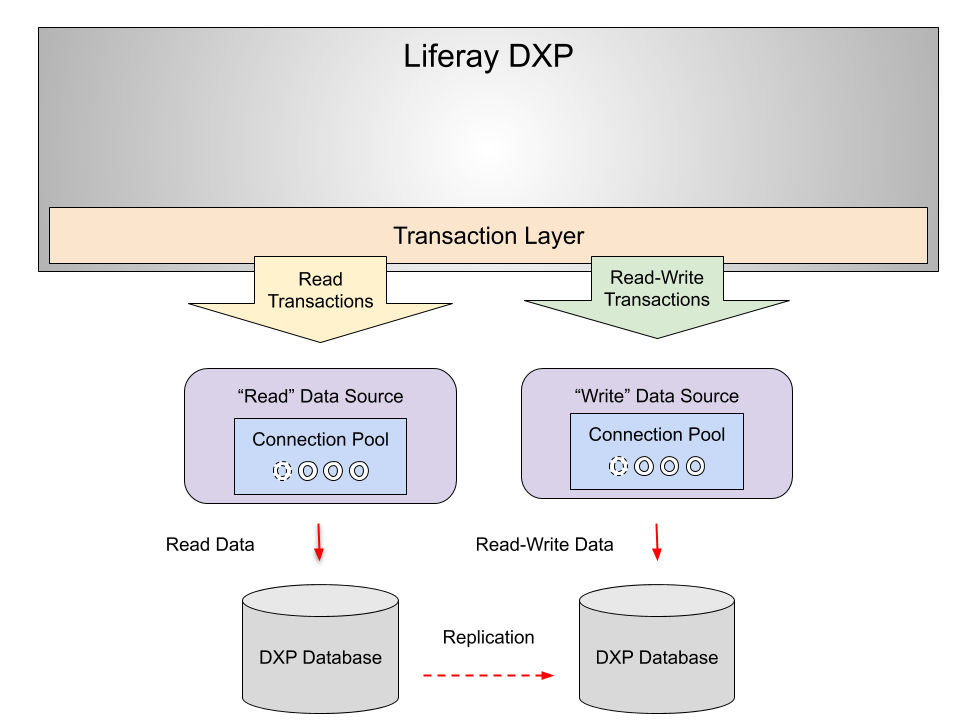
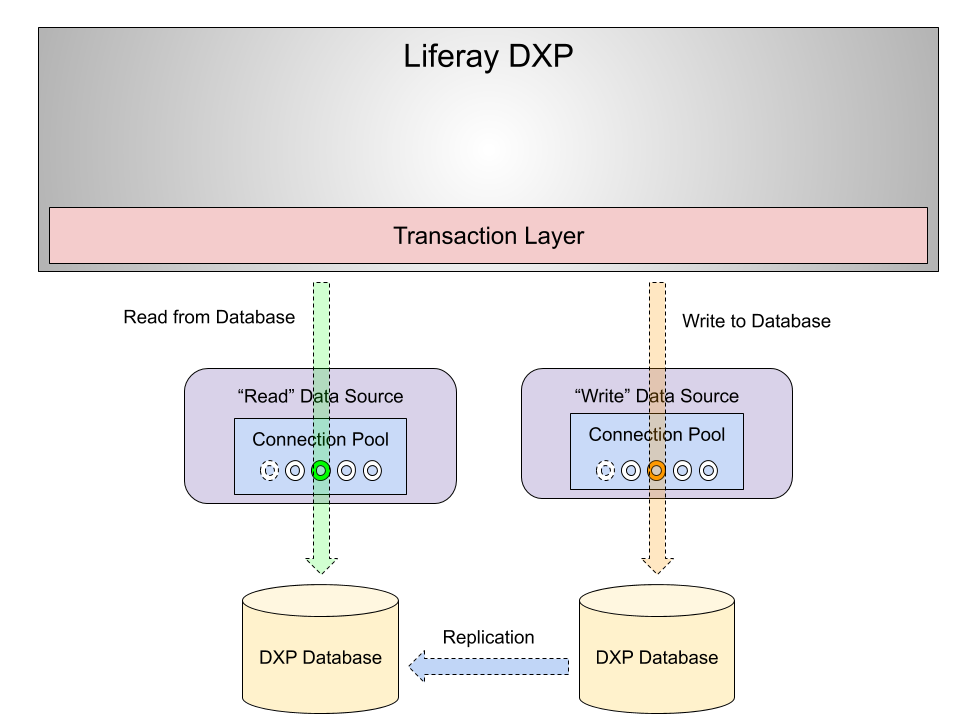
Update diagram, wordsmithing, update clustering article references throughout, update landing card

Changed region(s): [[0.0312, 0.275, 0.9688, 0.7944], [0.25, 0.825, 0.7812, 1.0], [0.1562, 0.7333, 0.2812, 0.7639]]

diff --git a/docs/dxp/7.x/en/installation-and-upgrades/landing.html b/docs/dxp/7.x/en/installation-and-upgrades/landing.html
@@ -32,12 +32,12 @@
 							url: 'installation-and-upgrades/setting-up-liferay-dxp/configuring-mail/connecting-to-a-mail-server.html'
 						},
 						{
-							name: 'Configuring the Document Library Repository (Coming Soon)',
-							url: 'installation-and-upgrades/setting-up-liferay-dxp/document-repository-overview.html'
+							name: 'Configuring File Storage',
+							url: 'system-administration/file-storage/configuring-file-storage.html'
 						},
 						{
-							name: 'Introduction to Clustering Liferay DXP (Coming Soon)',
-							url: 'installation-and-upgrades/configuring-clustering-for-high-availability/01-introduction-to-clustering-liferay-dxp.html'
+							name: 'Clustering for High Availability',
+							url: 'installation-and-upgrades/setting-up-liferay-dxp/clustering-for-high-availability/clustering-for-high-availability.html'
 						},
 					]
 				},

diff --git a/docs/dxp/7.x/en/installation-and-upgrades/README.rst b/docs/dxp/7.x/en/installation-and-upgrades/README.rst
@@ -58,15 +58,14 @@ Configuring the Document Library Repository
 -  :doc:`/installation-and-upgrades/setting-up-liferay-dxp/configuring-the-document-library-repository/using-the-dbstore`
 -  :doc:`/installation-and-upgrades/setting-up-liferay-dxp/configuring-the-document-library-repository/using-the-file-system-store`
 
-Configuring Clustering for High Availability
+Clustering for High Availability
 ~~~~~~~~~~~~~~~~~~~~~~~~~~~~~~~~~~~~~~~~~~~~
 
--  :doc:`/installation-and-upgrades/setting-up-liferay-dxp/configuring-clustering-for-high-availability/01-introduction-to-clustering-liferay-dxp`
--  :doc:`/installation-and-upgrades/setting-up-liferay-dxp/configuring-clustering-for-high-availability/02-database-configuration-for-cluster-nodes`
--  :doc:`/installation-and-upgrades/setting-up-liferay-dxp/configuring-clustering-for-high-availability/03-documents-and-media-configuration-with-clustering`
--  :doc:`/installation-and-upgrades/setting-up-liferay-dxp/configuring-clustering-for-high-availability/04-clustering-search`
--  :doc:`/installation-and-upgrades/setting-up-liferay-dxp/configuring-clustering-for-high-availability/05-cluster-link-overview`
--  :doc:`/installation-and-upgrades/setting-up-liferay-dxp/configuring-clustering-for-high-availability/06-configuring-unicast-over-tcp`
+-  :doc:`/installation-and-upgrades/setting-up-liferay-dxp/clustering-for-high-availability/clustering-for-high-availability`
+-  :doc:`/installation-and-upgrades/setting-up-liferay-dxp/clustering-for-high-availability/example-creating-a-simple-dxp-cluster`
+-  :doc:`/installation-and-upgrades/setting-up-liferay-dxp/clustering-for-high-availability/database-configuration-for-cluster-nodes`
+-  :doc:`/installation-and-upgrades/setting-up-liferay-dxp/clustering-for-high-availability/configuring-cluster-link`
+-  :doc:`/installation-and-upgrades/setting-up-liferay-dxp/clustering-for-high-availability/configuring-unicast-over-tcp`
 
 Securing Liferay
 ----------------

diff --git a/docs/dxp/7.x/en/installation-and-upgrades/setting-up-liferay-dxp/clustering-for-high-availability/database-configuration-for-cluster-nodes.md b/docs/dxp/7.x/en/installation-and-upgrades/setting-up-liferay-dxp/clustering-for-high-availability/database-configuration-for-cluster-nodes.md
@@ -1,15 +1,14 @@
 # Database Configuration for Cluster Nodes
 
-Each DXP cluster node must share the same Liferay DXP database (or database cluster). This means that DXP cannot (and should not) use the embedded HSQL database that is shipped with DXP bundles. And, of course, the database server should be set up on a server separate from the DXP server.
+At minimum, nodes in a DXP cluster must be [configured to share the same database](./example-creating-a-simple-dxp-cluster.md#configure-cluster-link-and-the-other-server-connections) (or database cluster) in order to function. Optimizations discussed here can further improve database performance for a DXP cluster and should be considered with consideration for your usage of DXP and expected transaction volume.
 
-**Outline:**
-
-* [Read-Writer Database Configuration](#read-writer-database-configuration)
-* [Database Replication](#database-replication)
+```warning::
+   Clustering will not work with the embedded HSQL database.
+```
 
 ## Read-Writer Database Configuration
 
-For even better performance, you can also use a read-writer database configuration. Instead of using the same data source for read and read-write operations, this strategy uses a separate data source for each operation type. DXP's Aspect Oriented Programming (AOP) transaction infrastructure directs read transactions to the read data source and read-write transactions to the write data source.
+To improve database performance, you can use a read-writer database configuration. Instead of using the same data source for read and read-write operations, this strategy uses a separate data source for each operation type. DXP's Aspect Oriented Programming (AOP) transaction infrastructure directs read transactions to the read data source and read-write transactions to the write data source.
 
 ![Read-Writer Database Interaction](./database-configuration-for-cluster-nodes/images/01.png)
 

diff --git a/labs/dxp/7.x/installation-and-upgrades/README.rst b/labs/dxp/7.x/installation-and-upgrades/README.rst
@@ -48,15 +48,13 @@ Configuring the Document Library Repository
 -  :doc:`/installation-and-upgrades/setting-up-liferay-dxp/configuring-the-document-library-repository/using-the-dbstore`
 -  :doc:`/installation-and-upgrades/setting-up-liferay-dxp/configuring-the-document-library-repository/using-the-file-system-store`
 
-Configuring Clustering for High Availability
+Clustering for High Availability
 ~~~~~~~~~~~~~~~~~~~~~~~~~~~~~~~~~~~~~~~~~~~~
 
--  :doc:`/installation-and-upgrades/setting-up-liferay-dxp/configuring-clustering-for-high-availability/01-introduction-to-clustering-liferay-dxp`
--  :doc:`/installation-and-upgrades/setting-up-liferay-dxp/configuring-clustering-for-high-availability/02-database-configuration-for-cluster-nodes`
--  :doc:`/installation-and-upgrades/setting-up-liferay-dxp/configuring-clustering-for-high-availability/03-documents-and-media-configuration-with-clustering`
--  :doc:`/installation-and-upgrades/setting-up-liferay-dxp/configuring-clustering-for-high-availability/04-clustering-search`
--  :doc:`/installation-and-upgrades/setting-up-liferay-dxp/configuring-clustering-for-high-availability/05-cluster-link-overview`
--  :doc:`/installation-and-upgrades/setting-up-liferay-dxp/configuring-clustering-for-high-availability/06-configuring-unicast-over-tcp`
+-  :doc:`/installation-and-upgrades/setting-up-liferay-dxp/clustering-for-high-availability/clustering-for-high-availability`
+-  :doc:`/installation-and-upgrades/setting-up-liferay-dxp/clustering-for-high-availability/database-configuration-for-cluster-nodes`
+-  :doc:`/installation-and-upgrades/setting-up-liferay-dxp/clustering-for-high-availability/configuring-cluster-link`
+-  :doc:`/installation-and-upgrades/setting-up-liferay-dxp/clustering-for-high-availability/configuring-unicast-over-tcp`
 
 Securing Liferay
 ----------------

diff --git a/docs/dxp/7.x/en/installation-and-upgrades/setting-up-liferay-dxp/configuring_clustering_for_high_availability.rst b/docs/dxp/7.x/en/installation-and-upgrades/setting-up-liferay-dxp/configuring_clustering_for_high_availability.rst
@@ -1,14 +1,14 @@
-Configuring Clustering for High Availability
+Clustering for High Availability
 ============================================
 
 .. toctree::
    :maxdepth: 2
 
-   configuring-clustering-for-high-availability/configuring-clustering-for-high-availability.md
-   configuring-clustering-for-high-availability/example-creating-a-simple-dxp-cluster.md
-   configuring-clustering-for-high-availability/database-configuration-for-cluster-nodes.md
-   configuring-clustering-for-high-availability/configuring-cluster-link.md
-   configuring-clustering-for-high-availability/configuring-unicast-over-tcp.md
+   clustering-for-high-availability/clustering-for-high-availability.md
+   clustering-for-high-availability/example-creating-a-simple-dxp-cluster.md
+   clustering-for-high-availability/database-configuration-for-cluster-nodes.md
+   clustering-for-high-availability/configuring-cluster-link.md
+   clustering-for-high-availability/configuring-unicast-over-tcp.md
 
-.. include:: /installation-and-upgrades/setting-up-liferay-dxp/configuring-clustering-for-high-availability/README.rst
+.. include:: /installation-and-upgrades/setting-up-liferay-dxp/clustering-for-high-availability/README.rst
    :start-line: 2

diff --git a/docs/dxp/7.x/en/system-administration/file-storage/other-file-store-types/simple-file-system-store.md b/docs/dxp/7.x/en/system-administration/file-storage/other-file-store-types/simple-file-system-store.md
@@ -53,7 +53,7 @@ dl.store.impl=com.liferay.portal.store.file.system.FileSystemStore
 
 ## Using the Store in a Clustered Environment
 
-In a [clustered environment](../../../installation-and-upgrades/setting-up-liferay-dxp/configuring-clustering-for-high-availability/01-introduction-to-clustering-liferay-dxp.md), point the store to a network mounted file system that all the nodes can access. The networked file system must be accessible to all nodes, support concurrent requests, and support file locking. If Simple File System Store is used without such a file system and multiple users attempt writing to the same file concurrently, data corruption can occur.
+In a [clustered environment](../../../installation-and-upgrades/setting-up-liferay-dxp/clustering-for-high-availability/clustering-for-high-availability.md), point the store to a network mounted file system that all the nodes can access. The networked file system must be accessible to all nodes, support concurrent requests, and support file locking. If Simple File System Store is used without such a file system and multiple users attempt writing to the same file concurrently, data corruption can occur.
 
 ## Additional Information
 

diff --git a/docs/dxp/7.x/en/installation-and-upgrades/maintaining-a-liferay-dxp-installation/backing-up.md b/docs/dxp/7.x/en/installation-and-upgrades/maintaining-a-liferay-dxp-installation/backing-up.md
@@ -53,7 +53,7 @@ This file can then be backed up. On restoring the database you can import this f
 ## Search Indexes
 
 ```important::
-   If you've placed your search index into a database (not recommended; see the `DXP Clustering <https://help.liferay.com/hc/en-us/articles/360029123831-Liferay-DXP-Clustering>`_ article for information on using Cluster Link or Solr), you should back up that database too.
+   If you've placed your search index into a database (not recommended; see the `DXP Clustering <../setting-up-liferay-dxp/clustering-for-high-availability/clustering-for-high-availability.md>`_ article for information on using Cluster Link or Solr), you should back up that database too.
 ```
 
 Users with large data sets may want to avoid re-indexing all of their content and assets when restoring from a backup. In this case we recommend backing up your search indexes. This is easiest to do if you have a separate [Elasticsearch or Solr](https://help.liferay.com/hc/en-us/articles/360028711092-Introduction-to-Installing-a-Search-Engine) environment on which your index is stored. If you're in a clustered configuration and you're replicating indexes, you must back up each index replica.

diff --git a/docs/dxp/7.x/en/system-administration/file-storage/configuring-file-storage.md b/docs/dxp/7.x/en/system-administration/file-storage/configuring-file-storage.md
@@ -34,7 +34,7 @@ DXP is now saving files using Advanced File System Store.
 
 ### File Storage in a Clustered Environment
 
-In a [clustered environment](../../../installation-and-upgrades/setting-up-liferay-dxp/configuring-clustering-for-high-availability/01-introduction-to-clustering-liferay-dxp.md), point the store to a network mounted file system that all the nodes can access. The networked file system must be accessible to all nodes, support concurrent requests, and support file locking. If Advanced File System Store is used without such a file system and multiple users attempt writing to the same file concurrently, data corruption can occur.
+In a [clustered environment](../../../installation-and-upgrades/setting-up-liferay-dxp/clustering-for-high-availability/clustering-for-high-availability.md), point the store to a network mounted file system that all the nodes can access. The networked file system must be accessible to all nodes, support concurrent requests, and support file locking. If Advanced File System Store is used without such a file system and multiple users attempt writing to the same file concurrently, data corruption can occur.
 
 ## Other File Storage Topics
 

diff --git a/docs/dxp/7.x/en/installation-and-upgrades/setting-up-liferay-dxp/clustering-for-high-availability/configuring-cluster-link.md b/docs/dxp/7.x/en/installation-and-upgrades/setting-up-liferay-dxp/clustering-for-high-availability/configuring-cluster-link.md
@@ -12,7 +12,6 @@ Clustering in DXP may be configured in different ways depending on your network 
 
 * [Enabling Cluster Link](#enabling-cluster-link)
 * [Configuring Cluster Link](#configuring-cluster-link)
-* [Optimizing Cluster Cache Performance](#optimizing-cluster-cache-performance)
 * [Conclusion](#conclusion)
 
 ## Enabling Cluster Link
@@ -78,14 +77,14 @@ Your network configuration may preclude the use of multicast over TCP, so below 
 
 ### Test Your Cluster Link Configuration
 
-1.  If you are binding the IP address instead of using `localhost`, make sure the right IP addresses are declared using these properties:
+1. If you are binding the IP address instead of using `localhost`, make sure the right IP addresses are declared using these properties:
 
     ```properties
     cluster.link.bind.addr["cluster-link-control"]=localhost
     cluster.link.bind.addr["cluster-link-udp"]=localhost
     ```
 
-2.  Test your load and then optimize your settings if necessary.
+1. Test your load and then optimize your settings if necessary.
 
 ## Conclusion
 

diff --git a/docs/dxp/7.x/en/installation-and-upgrades/installing-liferay/installing-liferay-on-an-application-server/installing-on-wildfly.md b/docs/dxp/7.x/en/installation-and-upgrades/installing-liferay/installing-liferay-on-an-application-server/installing-on-wildfly.md
@@ -84,7 +84,7 @@ Administrators can run DXP on WildFly in domain mode, but this method is not ful
 The command line interface is recommended for domain mode deployments.
 
 ```note::
-   This does not prevent DXP from running in a clustered environment on multiple WildFly servers. Administrators can set up a cluster of DXP instances running on WildFly servers running in standalone mode. Please refer to the `DXP clustering articles <../../setting-up-liferay-dxp/configuring-clustering-for-high-availability/01-introduction-to-clustering-liferay-dxp.md>`_ for more information.
+   This does not prevent DXP from running in a clustered environment on multiple WildFly servers. Administrators can set up a cluster of DXP instances running on WildFly servers running in standalone mode. Please refer to the `DXP clustering articles <../../setting-up-liferay-dxp/clustering-for-high-availability/clustering-for-high-availability.md>`_ for more information.
 ```
 
 ## Configuring WildFly

diff --git a/docs/dxp/7.x/en/installation-and-upgrades/installing-liferay/installing-liferay-on-an-application-server/installing-on-jboss-eap.md b/docs/dxp/7.x/en/installation-and-upgrades/installing-liferay/installing-liferay-on-an-application-server/installing-on-jboss-eap.md
@@ -78,7 +78,7 @@ DXP supports JBoss EAP when it runs in standalone mode but not when it runs in d
 The command line interface is recommended for domain mode deployments.
 
 ```note::
-   This does not prevent DXP from running in a clustered environment on multiple JBoss servers. You can set up a cluster of DXP instances running on JBoss EAP servers running in standalone mode. Please refer to the `DXP clustering articles <../../setting-up-liferay-dxp/configuring-clustering-for-high-availability/01-introduction-to-clustering-liferay-dxp.md>`_ for more information.
+   This does not prevent DXP from running in a clustered environment on multiple JBoss servers. You can set up a cluster of DXP instances running on JBoss EAP servers running in standalone mode. Please refer to the `DXP clustering articles <../../setting-up-liferay-dxp/clustering-for-high-availability/clustering-for-high-availability.md>`_ for more information.
 ```
 
 ## Configuring JBoss

diff --git a/docs/dxp/7.x/en/installation-and-upgrades/setting-up-liferay-dxp/clustering-for-high-availability/example-creating-a-simple-dxp-cluster.md b/docs/dxp/7.x/en/installation-and-upgrades/setting-up-liferay-dxp/clustering-for-high-availability/example-creating-a-simple-dxp-cluster.md
@@ -28,7 +28,7 @@ Here are the steps for creating the cluster:
 1. [Test the Cluster](#test-the-cluster)
 
 ```note::
-   DXP cluster environments can also be set up using an `on-premises DXP Tomcat bundle <../../installing-liferay/installing-a-liferay-tomcat-bundle.md>`_, using `DXP installed to an app server <../../installing-liferay/installing-liferay-on-an-application-server/README.md>`_ on-premises, or using any combination of Docker containers and DXP installations.
+   DXP cluster environments can also be set up using an `on-premises DXP Tomcat bundle <../../installing-liferay/installing-a-liferay-tomcat-bundle.md>`_, using `DXP installed to an app server <../../installing-liferay/installing_liferay_on_an_application_server.md>`_ on-premises, or using any combination of Docker containers and DXP installations.
 ```
 
 ## Configure a Network for the Containers
